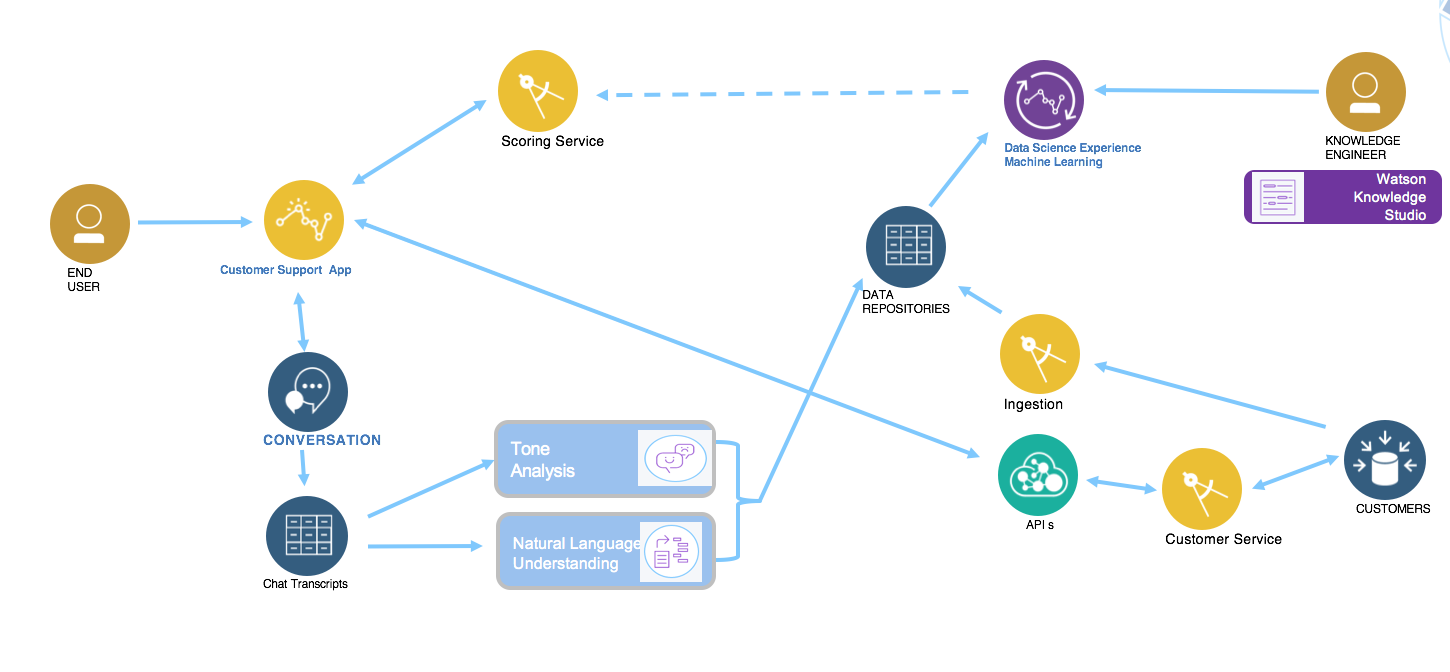
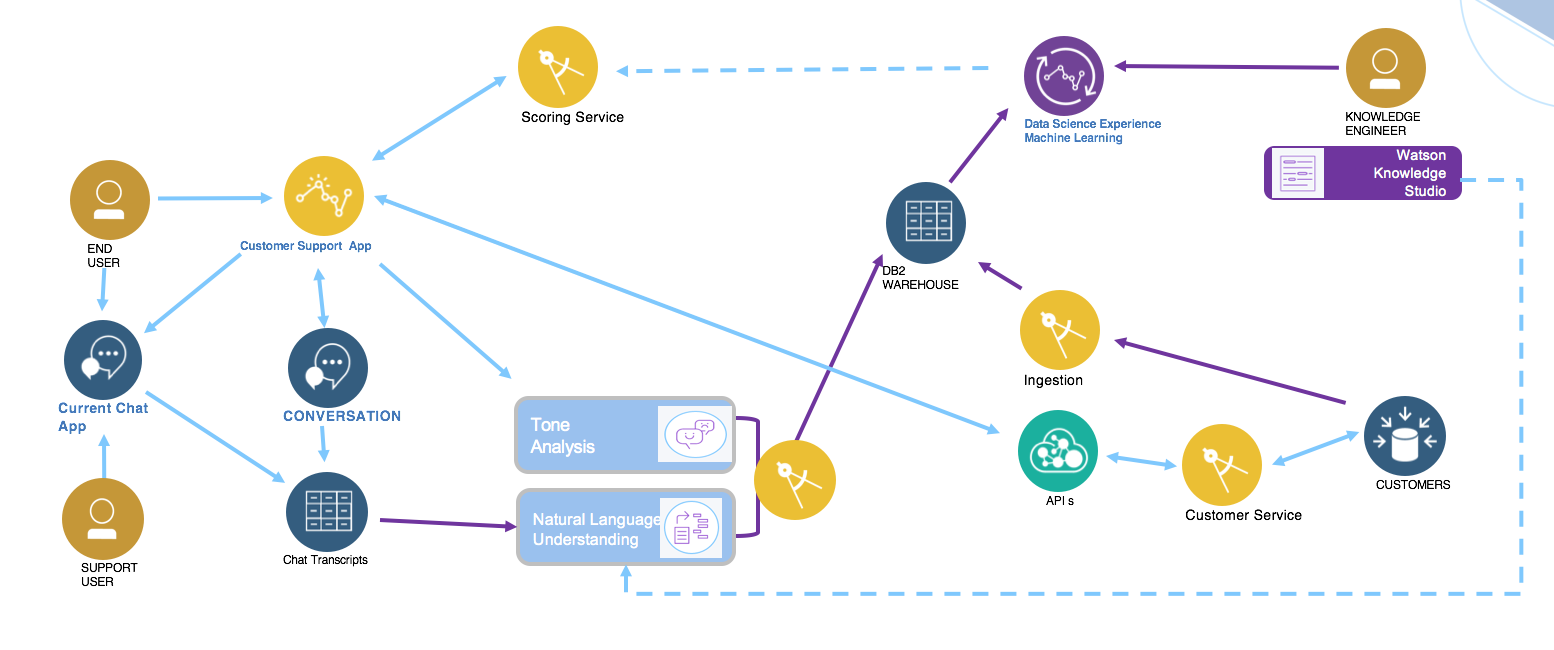
Updated diagrams

diff --git a/README.md b/README.md
@@ -19,3 +19,8 @@ The following diagram illustrates the system context of the application, includi
 The components involved are:
 * Web application to offer a set of services for the end user to use: the chat bot user interface will be used for the demonstration.
 * A scoring service to assess current risk of churn for that customer interacting with services of the company
+
+
+### Deployment View
+
+![](docs/deploy-view.png)
